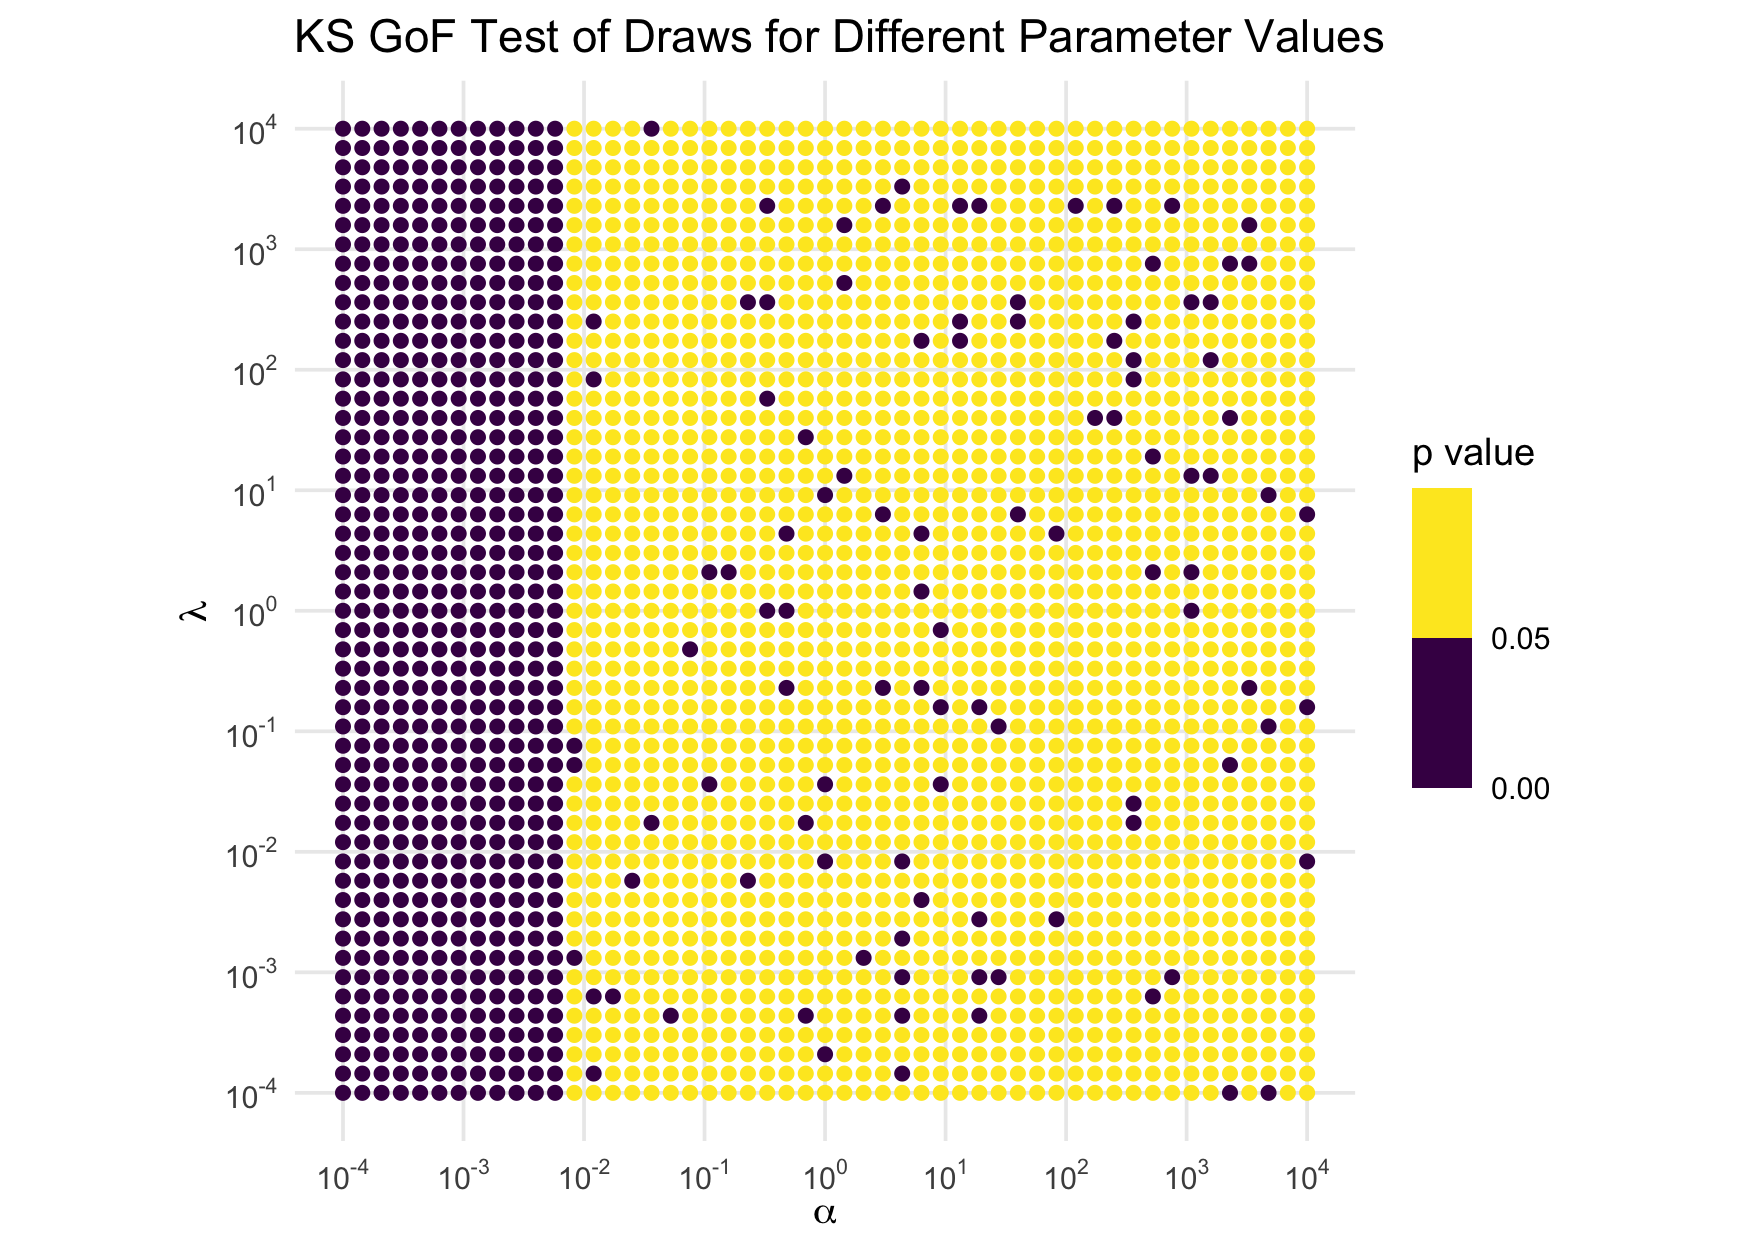
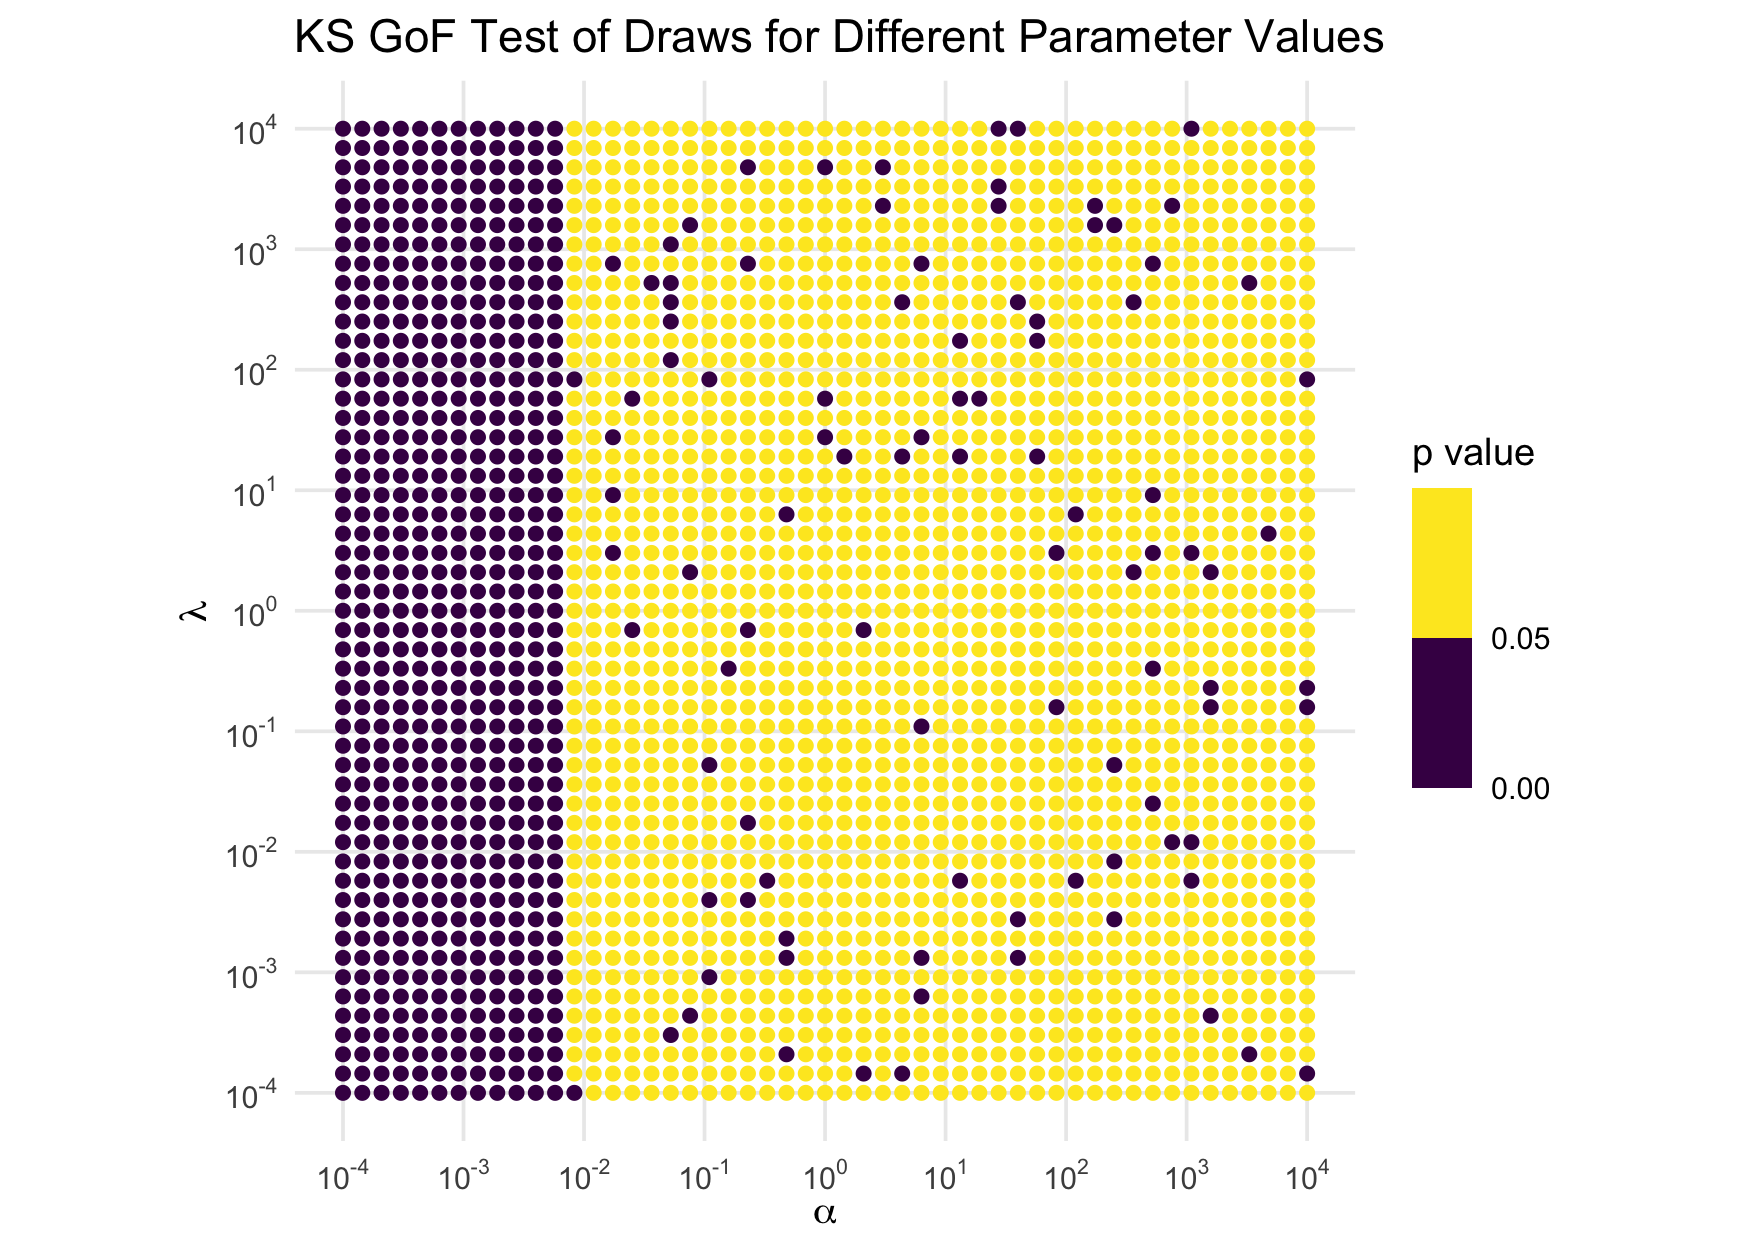
add zenodo/doi link in README

diff --git a/README.md b/README.md
@@ -5,8 +5,10 @@
 
 <!-- badges: start -->
 
-[![Codecov test
-coverage](https://codecov.io/gh/dkahle/invgamma/graph/badge.svg)](https://app.codecov.io/gh/dkahle/invgamma)
+<!-- [![Codecov test coverage](https://codecov.io/gh/dkahle/invgamma/graph/badge.svg)](https://app.codecov.io/gh/dkahle/invgamma) -->
+
+[![DOI](https://zenodo.org/badge/61824677.svg)](https://doi.org/10.5281/zenodo.16944076)
+
 <!-- badges: end -->
 
 **invgamma** implements the `[dpqr]` statistics functions for the
